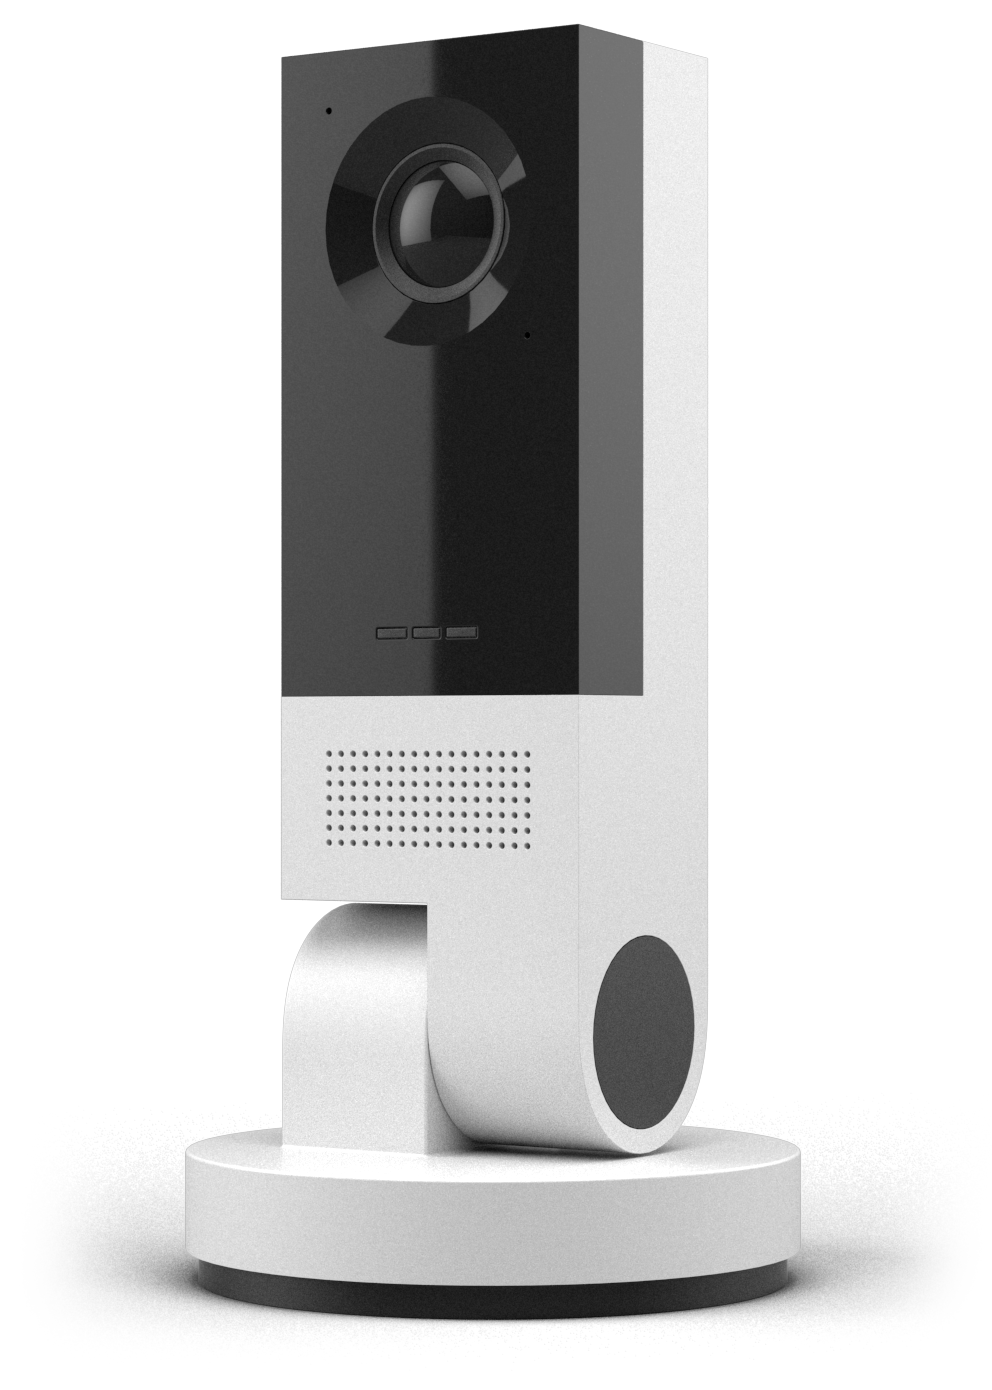
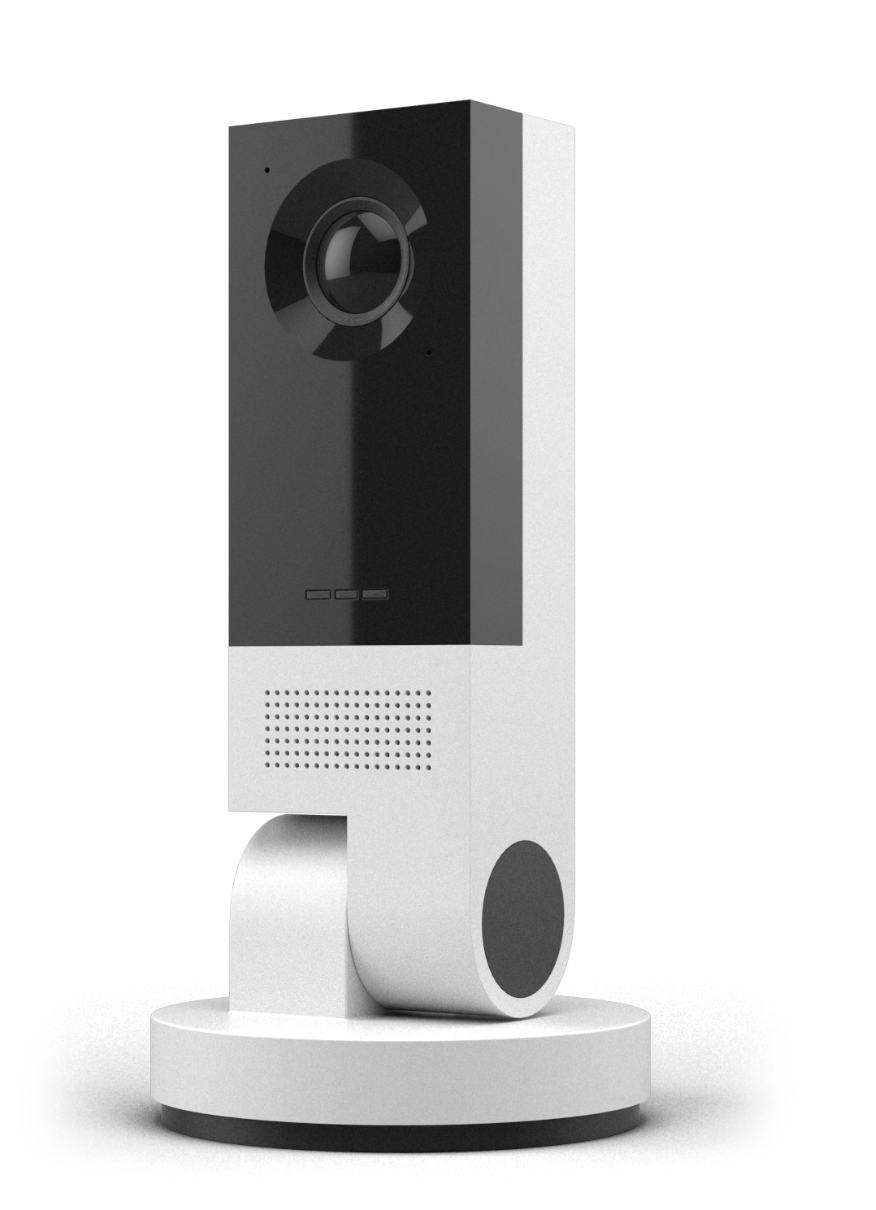
general
typo in IoT Hub instructions; shrink camera image;

Changed region(s): [[0.1233, 0.0, 0.9247, 0.9785]]

diff --git a/docs/assets/css/main.scss b/docs/assets/css/main.scss
@@ -83,13 +83,14 @@ article{
 
         .page__hero-image {
             position: absolute;
-            height: calc(100% + 5px);
+            height: calc(100% + 15px);
             left: 0;
             right: 0;
+            top: 0;
             margin-left: auto;
             width: 34%;
             max-width: 456px;
-            background-size: cover;
+            background-size: contain;
         }
     }
 }

diff --git a/docs/_docs/07-Deploy_Model_IoT_Hub.md b/docs/_docs/07-Deploy_Model_IoT_Hub.md
@@ -78,7 +78,7 @@ The Azure portal uses a wizard to walk you through creating the deployment manif
 
 By default the wizard gives you a route called *route*, defined as FROM /* INTO $upstream, which means that any messages output by any module will be sent to your IoT hub.
 
-While the sample module requires no changes, you can qdd or update the routes with information from Declare routes, then select **Next** to continue to the review section.
+While the sample module requires no changes, you can add or update the routes with information from Declare routes, then select **Next** to continue to the review section.
 
 ### Review deployment
 

diff --git a/docs/_pages/home.md b/docs/_pages/home.md
@@ -5,7 +5,7 @@ title: A smart camera for the Intelligent Edge
 header:
   overlay_color: "#5e616c"
   overlay_image: /assets/images/node-graphic.png
-  image: /assets/images/camera-render-transparent.png
+  image: /assets/images/camera-render-transparent-small.png
   alt: "Picture of the Vision AI DevKit camera hardware"
   actions:
     - label: "Order <i class='fas fa-chevron-right'></i>"
